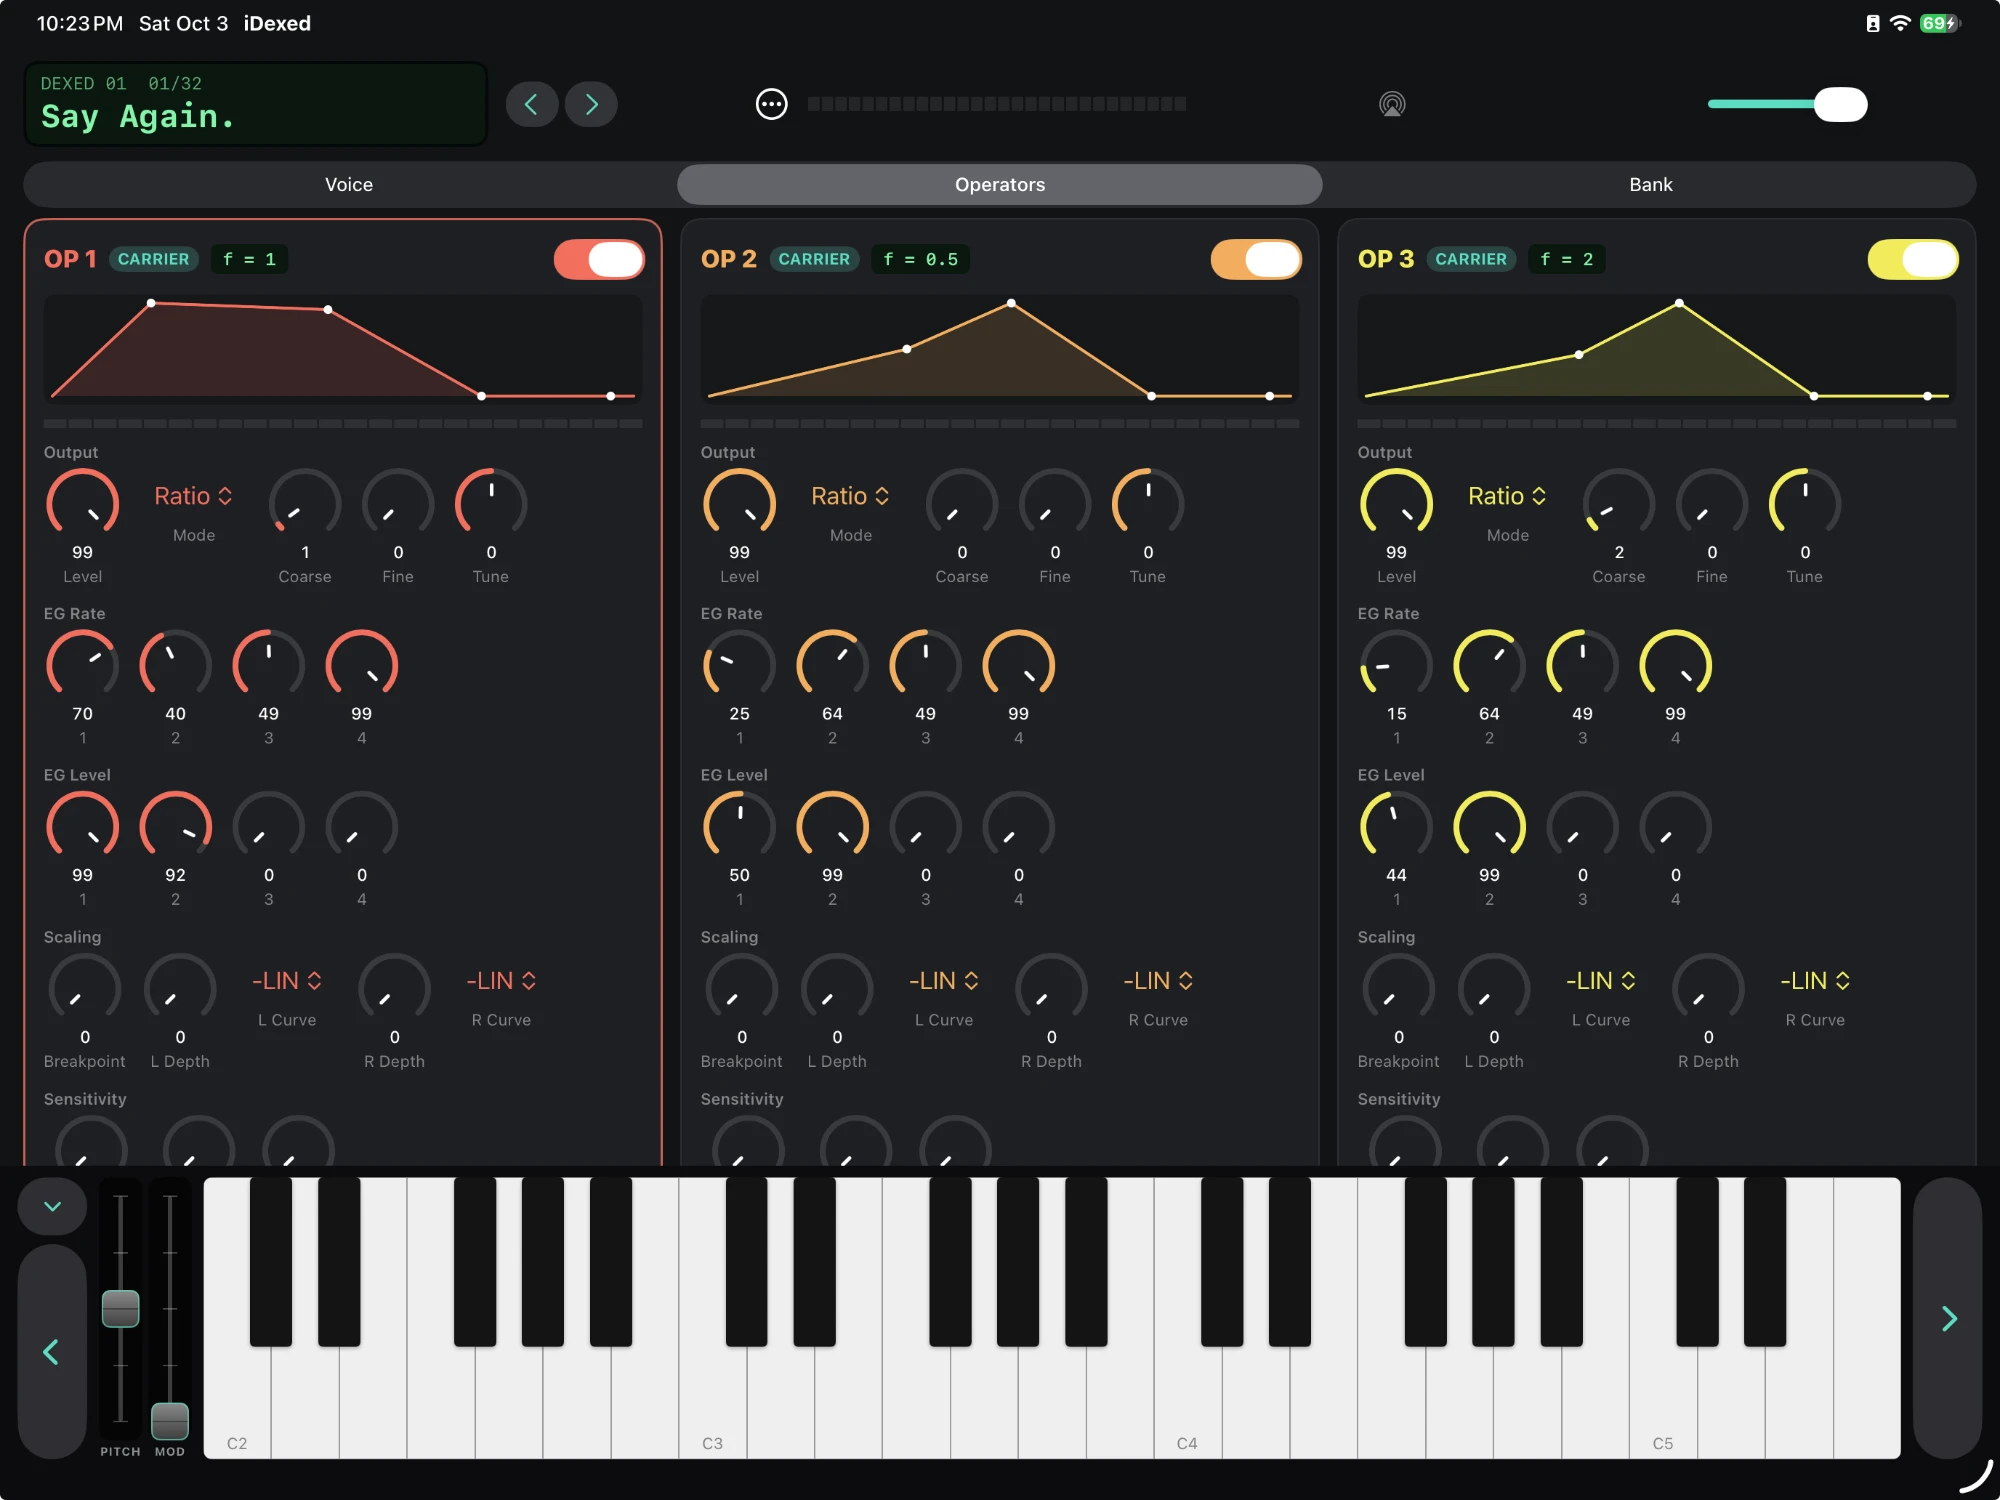
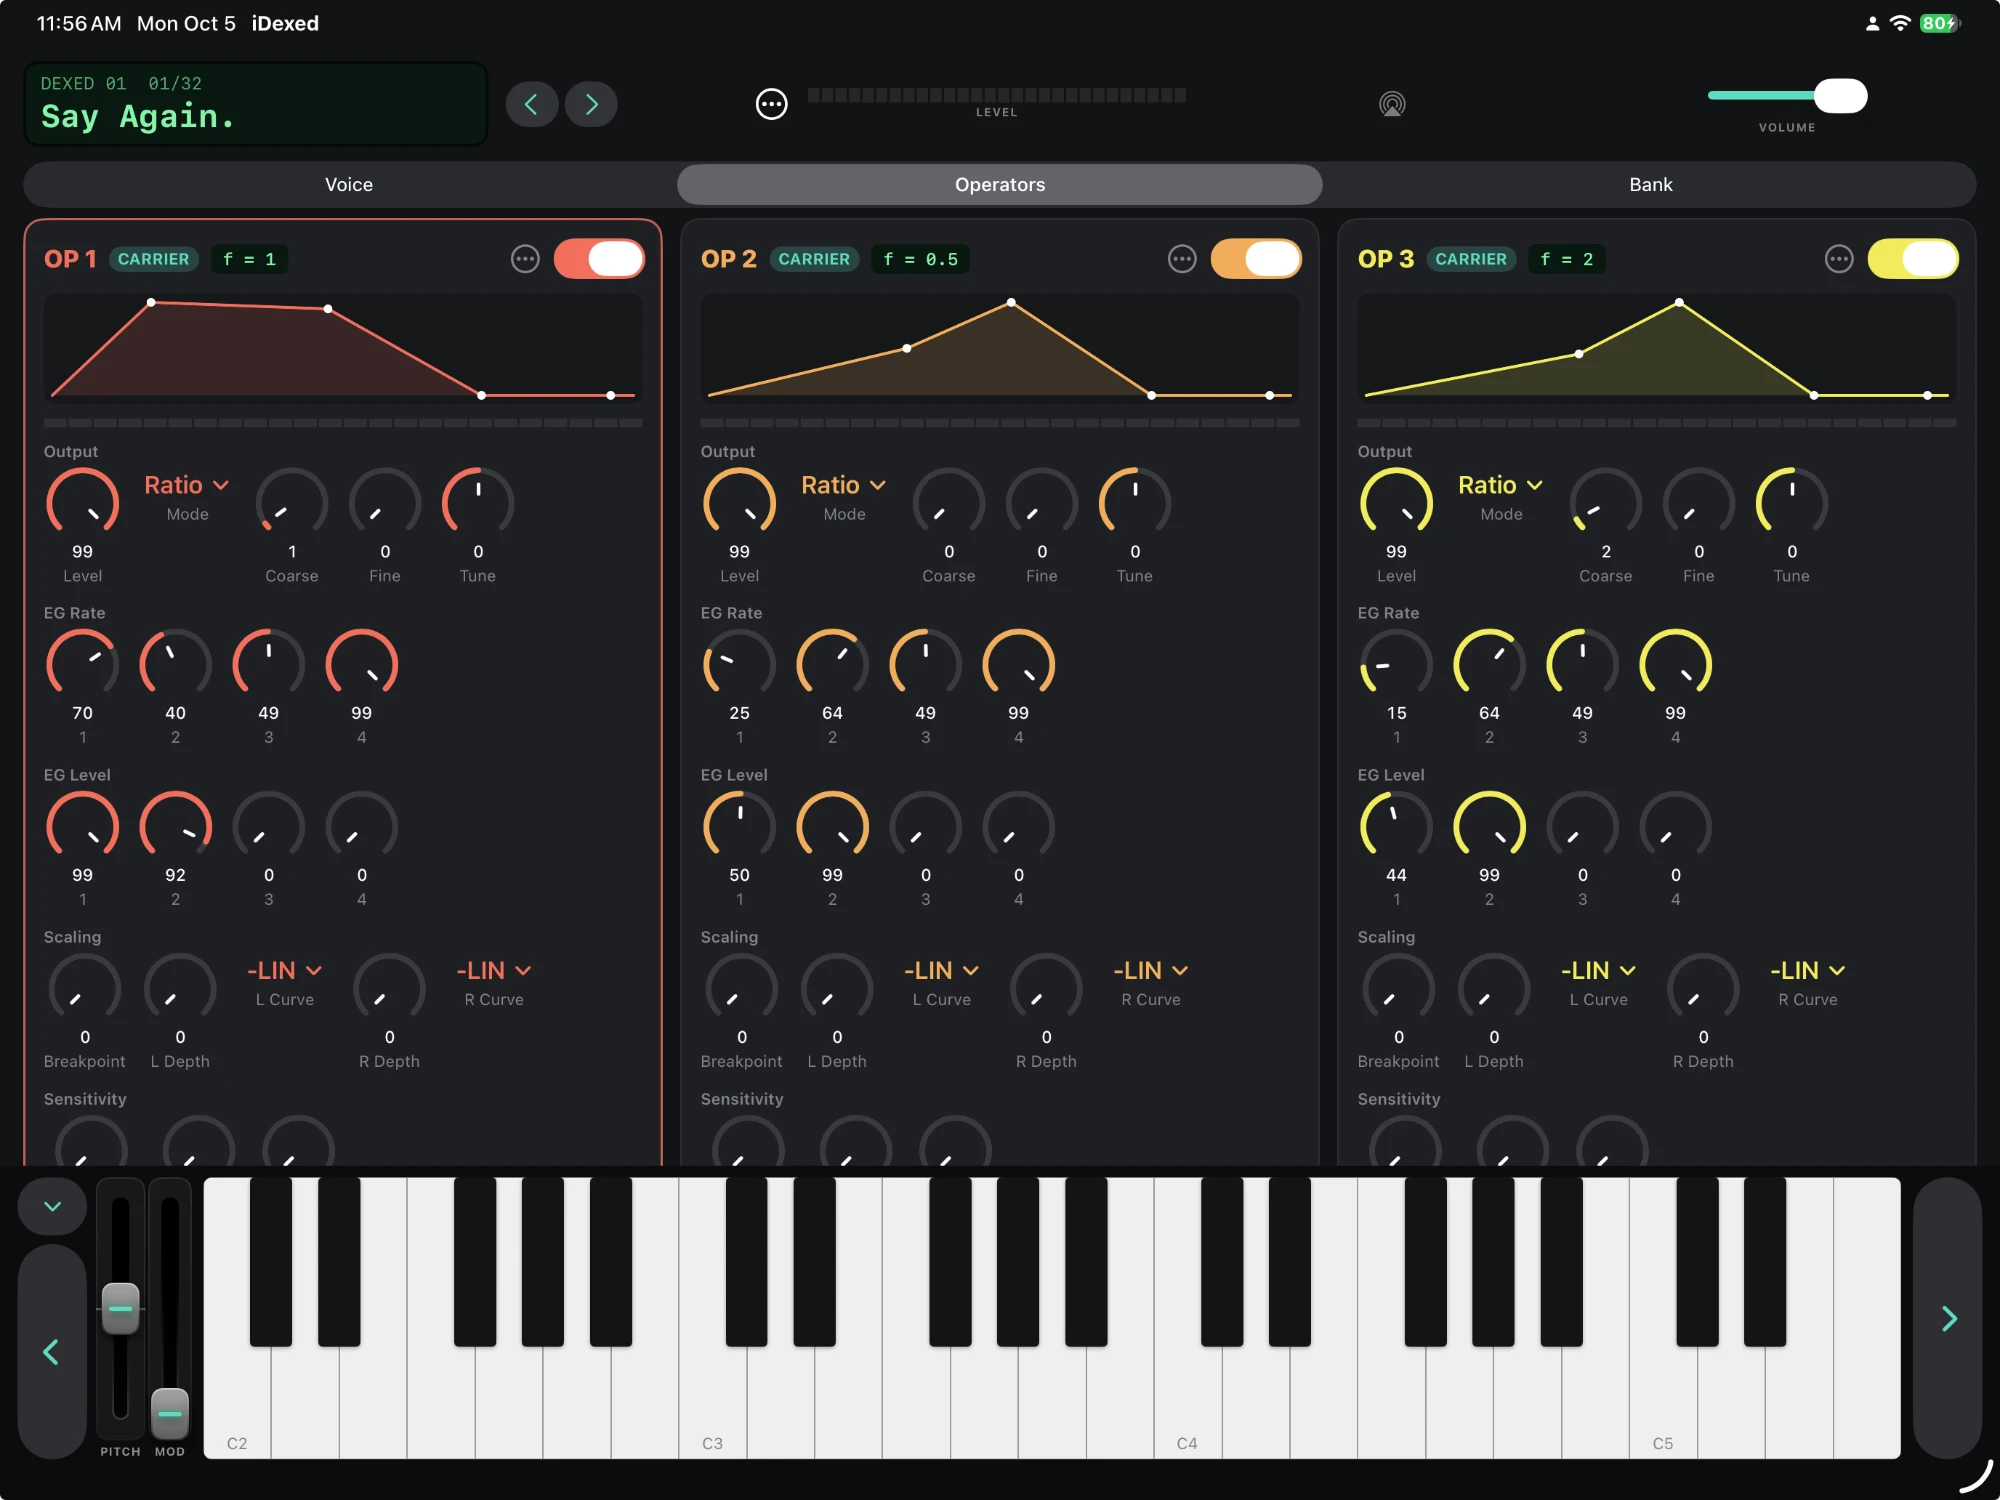
Simplify Pitch and Mod slider caps; refresh README screenshots

diff --git a/Shared/Components/Wheel.swift b/Shared/Components/Wheel.swift
@@ -80,13 +80,9 @@ struct Wheel: View {
                         RoundedRectangle(cornerRadius: 8, style: .continuous)
                             .strokeBorder(LinearGradient(colors: [.white.opacity(0.55), .black.opacity(0.45)], startPoint: .top, endPoint: .bottom), lineWidth: 1)
                     )
-                    .overlay {                       // grip ridges with a teal indicator line in the middle
-                        VStack(spacing: 3) {
-                            ForEach(0..<2, id: \.self) { _ in ridge }
-                            Capsule().fill(Theme.accent).frame(width: w - 14, height: 3)
-                                .shadow(color: Theme.accent.opacity(0.8), radius: 3)
-                            ForEach(0..<2, id: \.self) { _ in ridge }
-                        }
+                    .overlay {                       // just the teal indicator line
+                        Capsule().fill(Theme.accent).frame(width: w - 14, height: 3)
+                            .shadow(color: Theme.accent.opacity(0.8), radius: 3)
                     }
                     .frame(width: w - 4, height: capH)
                     .shadow(color: .black.opacity(0.65), radius: 3, y: 2)
@@ -105,13 +101,5 @@ struct Wheel: View {
                     }
             )
         }
-    }
-
-    private var ridge: some View {
-        VStack(spacing: 0) {
-            Rectangle().fill(.black.opacity(0.35)).frame(height: 1)
-            Rectangle().fill(.white.opacity(0.28)).frame(height: 1)
-        }
-        .frame(width: 18)
     }
 }

diff --git a/README.md b/README.md
@@ -9,7 +9,7 @@ A native SwiftUI port of [Dexed](https://github.com/asb2m10/dexed), the open-sou
 | ![Voice tab on iPad Pro 13-inch: algorithm, global, pitch envelope, LFO and controllers cards](docs/screenshots/ipad-voice.png) | ![Operators tab on iPad Pro 13-inch: three operator cards with envelopes, meters and frequency readouts](docs/screenshots/ipad-operators.png) |
 
 <p align="center">
-  <img src="docs/screenshots/iphone-bank.png" alt="Bank tab on iPhone 16 Pro Max with the on-screen keyboard and pitch and mod wheels" width="320">
+  <img src="docs/screenshots/iphone-voice.png" alt="Voice tab on iPhone 16 Pro Max with the algorithm and global cards, on-screen keyboard and pitch and mod sliders" width="320">
 </p>
 
 ## Project layout
